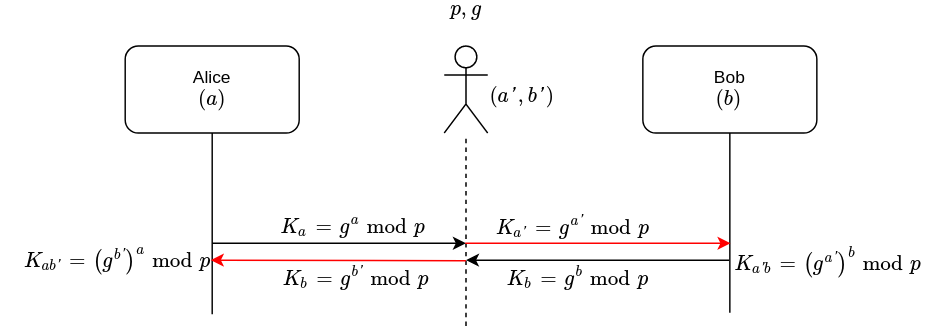
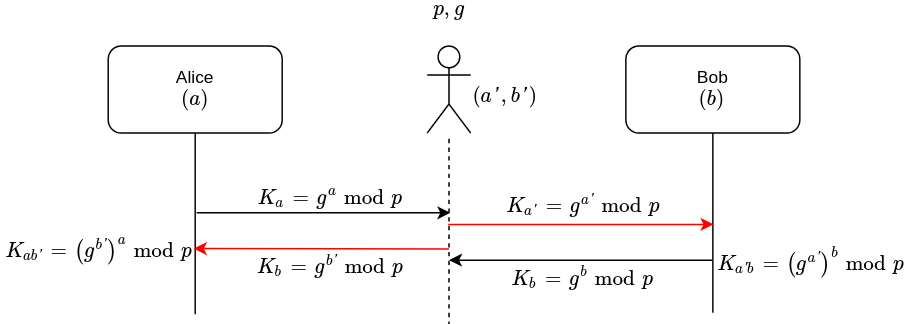
GitBook: [master] one page and 2 assets modified

diff --git a/diffie-hellman.md b/diffie-hellman.md
@@ -26,13 +26,13 @@ $$(m^{a_1b_1a_2}\pmod p)^{b_2}\pmod p\equiv m^{a_1b_1a_2b_2}\pmod p\equiv m$$
 
 ### Cryptanalysis
 
-## Key Exchange
+## 2-pass \(Key Exchange\)
 
 ### Algorithm
 
 * $$p$$, a _**large**_ prime integer, _**public**_
-* $$g$$, a primitive root mod $$p$$, public \(also called a generator\)
-* Session key is then obtained by both parties calculating:
+* $$g$$, a primitive root mod $$p$$\(also called a generator\), _**public**_
+* Key $$K_{ab}$$is then obtained by both parties calculating:
   * $$a,b$$ are private to Alice and Bob respectively
   * $$K_{ab}=g^{ab}\pmod p$$
   * Alice can compute $$K_{ab}=g^{ba}\pmod p$$
@@ -45,10 +45,4 @@ $$(m^{a_1b_1a_2}\pmod p)^{b_2}\pmod p\equiv m^{a_1b_1a_2b_2}\pmod p\equiv m$$
 Man in the middle
 
 ![](.gitbook/assets/key-exchange-mitm.png)
-
-
-
-
-
-
 
